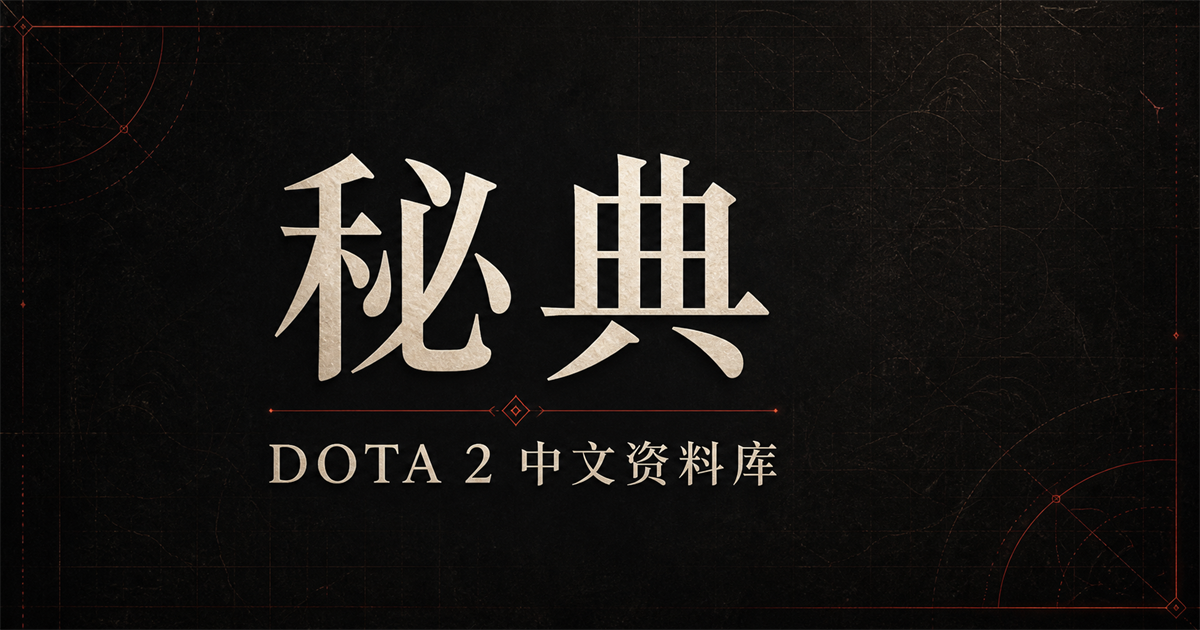
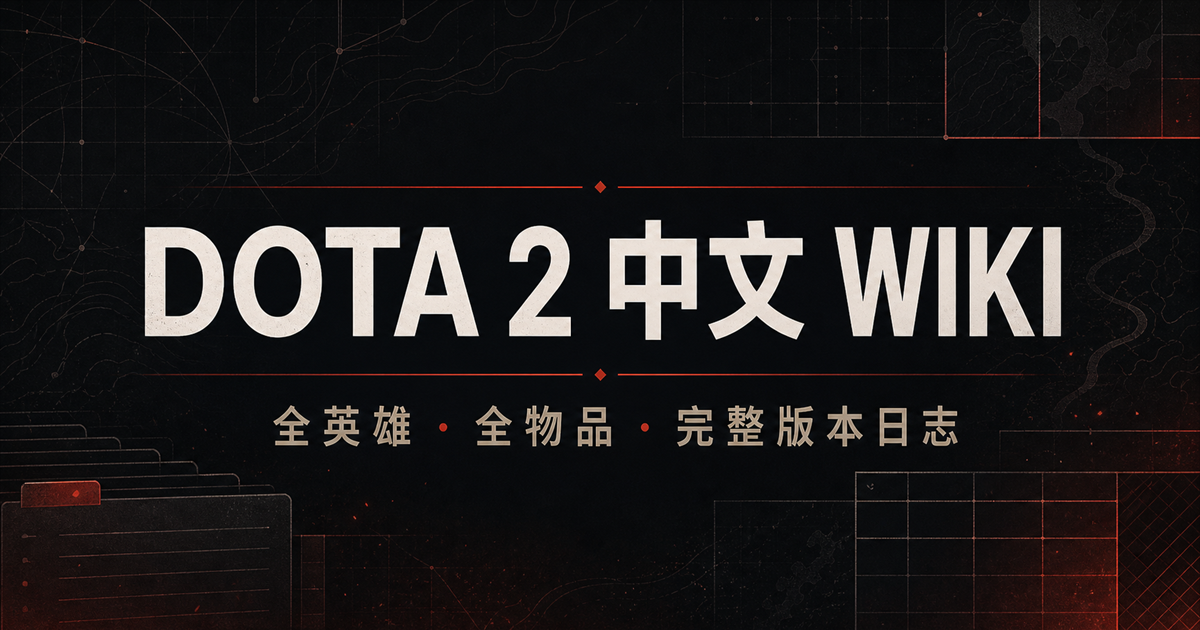
refine Dota 2 branding and homepage

diff --git a/app/globals.css b/app/globals.css
@@ -52,9 +52,10 @@ img { display: block; max-width: 100%; }
   z-index: 50;
 }
 .brand { align-items: center; display: flex; gap: 12px; }
-.brand-mark { align-items: center; background: var(--red); color: white; display: flex; font: 24px "STKaiti", "KaiTi", serif; height: 39px; justify-content: center; transform: rotate(-3deg); width: 39px; }
-.brand-copy strong { display: block; font: 23px "STKaiti", "KaiTi", serif; letter-spacing: .15em; }
-.brand-copy small { color: #6e736e; display: block; font-size: 9px; letter-spacing: .16em; margin-top: 2px; }
+.brand-logo { align-items: center; background: #171a1c; border: 1px solid #323638; display: flex; height: 42px; justify-content: center; overflow: hidden; width: 42px; }
+.brand-logo img { filter: brightness(0) saturate(100%) invert(48%) sepia(92%) saturate(1620%) hue-rotate(328deg) brightness(91%) contrast(88%); height: 30px; object-fit: contain; width: 30px; }
+.brand-copy strong { display: block; font-size: 15px; font-weight: 720; letter-spacing: .075em; white-space: nowrap; }
+.brand-copy small { color: #6e736e; display: block; font-size: 8px; letter-spacing: .08em; margin-top: 4px; white-space: nowrap; }
 .primary-nav { align-self: stretch; display: flex; gap: 28px; }
 .primary-nav a { align-items: center; color: #888c87; display: flex; font-size: 13px; position: relative; }
 .primary-nav a:hover, .primary-nav a.is-active { color: var(--ink); }
@@ -92,21 +93,18 @@ kbd { background: #222628; border: 1px solid #303638; border-radius: 3px; color:
 .footer-links a:hover { color: var(--ink); }
 
 /* Home */
-.home-intro { align-items: end; border-bottom: 1px solid var(--line); display: grid; gap: 70px; grid-template-columns: 1.15fr .85fr; margin: 0 auto; max-width: var(--max); padding: 72px 54px 58px; }
-.home-intro h1 { font: 500 clamp(39px, 4vw, 64px)/1.13 "STSong", "SimSun", serif; letter-spacing: .06em; margin: 0; }
-.home-intro-copy > p { color: #8a8e89; font-size: 13px; line-height: 2; margin: 0 0 28px; max-width: 530px; }
-.home-intro-copy > div { border-top: 1px solid var(--line); display: flex; gap: 30px; padding-top: 18px; }
-.home-intro-copy span { color: #666b67; font-size: 10px; }
-.home-intro-copy strong { color: #b9b6ae; font: 20px Georgia, serif; margin-right: 5px; }
-.latest-strip { align-items: center; background: linear-gradient(90deg, rgba(214,91,71,.11), rgba(16,19,20,.5)); border-bottom: 1px solid var(--line); display: grid; gap: 22px; grid-template-columns: 98px 1fr auto auto; margin: 0 auto; max-width: var(--max); padding: 18px 54px; }
-.latest-version { color: #e3dfd5; font: 30px Georgia, serif; }
+.latest-strip { align-items: center; background: radial-gradient(circle at 12% 50%, rgba(214,91,71,.18), transparent 28rem), linear-gradient(100deg, #171113, #111416 68%); border: 1px solid #4b2b27; box-shadow: 0 20px 70px rgba(0,0,0,.18), inset 3px 0 var(--red); display: grid; gap: 24px; grid-template-columns: auto 110px 1fr auto auto; margin: 28px auto 0; max-width: calc(var(--max) - 108px); min-height: 118px; padding: 24px 30px; }
+.latest-label { align-items: center; background: rgba(214,91,71,.11); border: 1px solid rgba(214,91,71,.42); color: #ee7a66; display: flex; font: 700 9px ui-monospace, monospace; gap: 8px; letter-spacing: .13em; padding: 7px 9px; white-space: nowrap; }
+.latest-label span { background: #f06450; border-radius: 50%; box-shadow: 0 0 0 5px rgba(240,100,80,.11); height: 6px; width: 6px; }
+.latest-version { color: #f1ede4; font: 42px Georgia, serif; letter-spacing: -.03em; }
 .latest-strip small, .latest-strip strong { display: block; }
-.latest-strip small { color: #6d726d; font-size: 9px; }
-.latest-strip strong { font: 16px "STSong", serif; margin-top: 4px; }
+.latest-strip small { color: #888b86; font-size: 9px; letter-spacing: .04em; }
+.latest-strip strong { font: 20px "STSong", serif; letter-spacing: .04em; margin-top: 7px; }
 .latest-stats { display: flex; gap: 8px; }
-.latest-stats span { border: 1px solid #323739; color: #737873; font-size: 9px; padding: 5px 8px; }
-.latest-strip a { color: #bbb8b0; font-size: 10px; }
-.latest-strip a:hover { color: var(--red); }
+.latest-stats span { background: rgba(255,255,255,.02); border: 1px solid #383d3f; color: #8f938e; font-size: 9px; padding: 6px 9px; }
+.latest-action { background: var(--red); color: white; font-size: 10px; font-weight: 700; padding: 12px 14px; transition: background .2s, transform .2s; white-space: nowrap; }
+.latest-action span { margin-left: 7px; }
+.latest-action:hover { background: #ea6a55; transform: translateX(2px); }
 
 /* Catalog */
 .catalog-layout { display: grid; grid-template-columns: 250px minmax(0, 1fr); margin: 0 auto; max-width: var(--max); }
@@ -137,7 +135,14 @@ kbd { background: #222628; border: 1px solid #303638; border-radius: 3px; color:
 .catalog-search input { background: transparent; border: 0; font-size: 10px; outline: 0; width: 100%; }
 .catalog-meta { border-bottom: 1px solid var(--line); color: #696e69; display: flex; font-size: 9px; justify-content: space-between; margin-top: 38px; padding-bottom: 12px; }
 .catalog-meta strong { color: #b2b0a8; }
-.catalog-meta button { background: transparent; border: 0; color: var(--red); cursor: pointer; font-size: 9px; }
+.catalog-meta-actions { align-items: center; display: flex; gap: 13px; }
+.catalog-meta button { cursor: pointer; }
+.clear-filters { background: transparent; border: 0; color: var(--red); font-size: 9px; }
+.view-switch { background: #101314; border: 1px solid #2d3234; display: flex; padding: 2px; }
+.view-switch button { align-items: center; background: transparent; border: 0; color: #676c68; display: flex; font-size: 9px; gap: 5px; padding: 5px 8px; }
+.view-switch button:hover { color: #b9b6af; }
+.view-switch button.is-active { background: #292e30; color: #edeae2; }
+.view-switch button span { color: var(--red); font-size: 12px; }
 .hero-grid { display: grid; gap: 16px; grid-template-columns: repeat(3, minmax(0, 1fr)); margin-top: 19px; }
 .hero-card { background: var(--panel); border: 1px solid #222729; overflow: hidden; transition: transform .2s, border-color .2s; }
 .hero-card:hover { border-color: #6f392f; transform: translateY(-3px); }
@@ -154,6 +159,14 @@ kbd { background: #222628; border: 1px solid #303638; border-radius: 3px; color:
 .hero-card-info h2 { font: 500 19px "STSong", serif; letter-spacing: .06em; margin: 4px 0 10px; }
 .hero-card-info div { display: flex; gap: 5px; }
 .hero-card-info div span { border: 1px solid #2b3032; color: #727772; font-size: 8px; padding: 3px 6px; }
+.hero-grid.is-compact { gap: 8px; grid-template-columns: repeat(2, minmax(0, 1fr)); }
+.hero-grid.is-compact .hero-card { display: grid; grid-template-columns: 118px minmax(0, 1fr); min-height: 84px; }
+.hero-grid.is-compact .hero-art { aspect-ratio: auto; height: 100%; min-height: 84px; }
+.hero-grid.is-compact .hero-art::after { background: linear-gradient(90deg, transparent 30%, rgba(8,10,11,.62)); }
+.hero-grid.is-compact .attribute-badge { bottom: 8px; height: 20px; left: 8px; width: 20px; }
+.hero-grid.is-compact .history-count { display: none; }
+.hero-grid.is-compact .hero-card-info { align-self: center; padding: 11px 13px; }
+.hero-grid.is-compact .hero-card-info h2 { font-size: 17px; margin-bottom: 7px; }
 .item-grid { display: grid; gap: 10px; grid-template-columns: repeat(3, minmax(0, 1fr)); margin-top: 18px; }
 .item-card { align-items: center; background: var(--panel); border: 1px solid #23282a; display: grid; gap: 13px; grid-template-columns: 58px 1fr auto; min-height: 82px; padding: 11px; transition: border-color .2s, transform .2s; }
 .item-card:hover { border-color: #684139; transform: translateY(-2px); }
@@ -371,9 +384,8 @@ kbd { background: #222628; border: 1px solid #303638; border-radius: 3px; color:
   .primary-nav a { font-size: 11px; }
   .global-search-button { display: none; }
   .page-shell { min-height: calc(100vh - 68px); }
-  .home-intro, .index-hero { gap: 30px; grid-template-columns: 1fr; padding: 42px 22px; }
-  .home-intro-copy > div { flex-wrap: wrap; }
-  .latest-strip { grid-template-columns: 70px 1fr auto; padding: 15px 22px; }
+  .index-hero { gap: 30px; grid-template-columns: 1fr; padding: 42px 22px; }
+  .latest-strip { grid-template-columns: auto 80px 1fr auto; margin: 20px; max-width: none; min-height: 104px; padding: 18px 20px; }
   .latest-stats { display: none; }
   .catalog-layout { display: block; }
   .filter-sidebar { border-bottom: 1px solid var(--line); border-right: 0; padding: 18px 20px; }
@@ -400,12 +412,12 @@ kbd { background: #222628; border: 1px solid #303638; border-radius: 3px; color:
 }
 
 @media (max-width: 560px) {
-  .brand-mark { height: 34px; width: 34px; }.brand-copy strong { font-size: 19px; }
+  .brand-logo { height: 35px; width: 35px; }.brand-logo img { height: 25px; width: 25px; }.brand-copy strong { font-size: 12px; }
   .primary-nav a:nth-child(4) { display: none; }
-  .home-intro h1 { font-size: 37px; }
-  .latest-strip { grid-template-columns: 60px 1fr; }.latest-strip a { display: none; }
+  .latest-strip { gap: 13px 18px; grid-template-columns: 65px 1fr; margin: 14px; padding: 17px 18px; }.latest-label { grid-column: 1 / -1; justify-self: start; }.latest-version { font-size: 32px; }.latest-strip strong { font-size: 16px; }.latest-action { display: none; }
   .catalog-heading { display: block; }.catalog-search { margin-top: 18px; width: 100%; }
   .hero-grid { gap: 9px; grid-template-columns: 1fr 1fr; }.hero-card-info { padding: 10px; }.hero-card-info h2 { font-size: 16px; }.history-count { display: none; }
+  .hero-grid.is-compact { grid-template-columns: 1fr; }.hero-grid.is-compact .hero-card { grid-template-columns: 105px minmax(0, 1fr); }
   .item-grid { grid-template-columns: 1fr; }
   .hero-detail-hero, .item-detail-hero { display: block; padding: 0; }
   .hero-detail-art { height: 210px; }.hero-title-copy, .item-detail-hero > div:nth-child(2) { padding: 20px; }

diff --git a/components/hero-browser.tsx b/components/hero-browser.tsx
@@ -1,7 +1,7 @@
 'use client';
 
 import Link from 'next/link';
-import { useMemo, useState } from 'react';
+import { useEffect, useMemo, useState } from 'react';
 
 type HeroSummary = {
   id: number;
@@ -22,6 +22,16 @@ export function HeroBrowser({ heroes, latestPatch }: { heroes: HeroSummary[]; la
   const [attribute, setAttribute] = useState('全部');
   const [role, setRole] = useState('');
   const [query, setQuery] = useState('');
+  const [viewMode, setViewMode] = useState<'grid' | 'compact'>('grid');
+
+  useEffect(() => {
+    if (window.localStorage.getItem('hero-view-mode') === 'compact') setViewMode('compact');
+  }, []);
+
+  const changeView = (mode: 'grid' | 'compact') => {
+    setViewMode(mode);
+    window.localStorage.setItem('hero-view-mode', mode);
+  };
 
   const counts = useMemo(() => Object.fromEntries(attributes.map((item) => [item, item === '全部' ? heroes.length : heroes.filter((hero) => hero.attribute === item).length])), [heroes]);
   const filtered = useMemo(() => {
@@ -75,10 +85,16 @@ export function HeroBrowser({ heroes, latestPatch }: { heroes: HeroSummary[]; la
 
         <div className="catalog-meta">
           <span><strong>{filtered.length}</strong> / {heroes.length} 位英雄</span>
-          {(attribute !== '全部' || role || query) && <button type="button" onClick={() => { setAttribute('全部'); setRole(''); setQuery(''); }}>清除筛选</button>}
+          <div className="catalog-meta-actions">
+            {(attribute !== '全部' || role || query) && <button className="clear-filters" type="button" onClick={() => { setAttribute('全部'); setRole(''); setQuery(''); }}>清除筛选</button>}
+            <div className="view-switch" role="group" aria-label="英雄展示方式">
+              <button className={viewMode === 'grid' ? 'is-active' : ''} type="button" onClick={() => changeView('grid')} aria-pressed={viewMode === 'grid'} title="卡片视图"><span aria-hidden="true">▦</span> 卡片</button>
+              <button className={viewMode === 'compact' ? 'is-active' : ''} type="button" onClick={() => changeView('compact')} aria-pressed={viewMode === 'compact'} title="紧凑列表"><span aria-hidden="true">☷</span> 列表</button>
+            </div>
+          </div>
         </div>
 
-        <div className="hero-grid">
+        <div className={`hero-grid${viewMode === 'compact' ? ' is-compact' : ''}`}>
           {filtered.map((hero) => (
             <Link className="hero-card" href={`/heroes/${hero.slug}`} key={hero.id}>
               <div className="hero-art">

diff --git a/app/page.tsx b/app/page.tsx
@@ -6,26 +6,12 @@ export default function HomePage() {
   const latest = patchIndex[0];
   return (
     <>
-      <section className="home-intro">
-        <div>
-          <p className="eyebrow accent">可追溯的中文 DOTA 2 知识库</p>
-          <h1>每一个技能，<br />都有自己的版本历史。</h1>
-        </div>
-        <div className="home-intro-copy">
-          <p>以 Valve 官方简体中文数据为主轴，将英雄、技能、物品和游戏性改动连成一套可检索的时间线。</p>
-          <div>
-            <span><strong>{meta.counts.heroes}</strong> 位英雄</span>
-            <span><strong>{meta.counts.items}</strong> 件可浏览物品</span>
-            <span><strong>{meta.counts.patches}</strong> 个官方中文版本</span>
-          </div>
-        </div>
-      </section>
-
       <section className="latest-strip">
+        <div className="latest-label"><span />NEW UPDATE</div>
         <span className="latest-version">{latest.version}</span>
-        <div><small>最新官方数据版本 · {formatDate(latest.timestamp)}</small><strong>{latest.name} 游戏性更新</strong></div>
+        <div className="latest-copy"><small>最新官方数据版本 · {formatDate(latest.timestamp)}</small><strong>{latest.name} 游戏性更新</strong></div>
         <div className="latest-stats"><span>{latest.heroChanges} 位英雄</span><span>{latest.itemChanges} 件物品</span></div>
-        <Link href={`/patches/${latest.version}`}>阅读完整日志 →</Link>
+        <Link className="latest-action" href={`/patches/${latest.version}`}>查看完整更新 <span>→</span></Link>
       </section>
 
       <HeroBrowser heroes={heroSummaries} latestPatch={meta.latestPatch} />

diff --git a/app/layout.tsx b/app/layout.tsx
@@ -5,19 +5,20 @@ import { meta, searchEntries } from '../lib/data';
 import './globals.css';
 
 export const metadata: Metadata = {
-  metadataBase: new URL(process.env.NEXT_PUBLIC_SITE_URL || 'http://localhost:3000'),
-  title: { default: '秘典 — DOTA 2 中文资料库', template: '%s｜秘典' },
+  metadataBase: new URL(process.env.NEXT_PUBLIC_SITE_URL || 'https://midian-dota2-cn.cpti3-tools.chatgpt.site'),
+  title: { default: 'DOTA 2 中文 WIKI', template: '%s｜DOTA 2 中文 WIKI' },
   description: 'DOTA 2 全英雄、技能、物品与版本改动的中文检索资料库。',
+  icons: { icon: 'https://cdn.cloudflare.steamstatic.com/apps/dota2/images/dota_react/global/dota2_logo_symbol.png' },
   openGraph: {
-    title: '秘典 — DOTA 2 中文资料库',
+    title: 'DOTA 2 中文 WIKI',
     description: '127 位英雄、全量物品与逐版本中文改动日志。',
     type: 'website',
     locale: 'zh_CN',
-    images: [{ url: '/og.png', width: 1200, height: 630, alt: '秘典 — DOTA 2 中文资料库' }],
+    images: [{ url: '/og.png', width: 1200, height: 630, alt: 'DOTA 2 中文 WIKI' }],
   },
   twitter: {
     card: 'summary_large_image',
-    title: '秘典 — DOTA 2 中文资料库',
+    title: 'DOTA 2 中文 WIKI',
     description: '127 位英雄、全量物品与逐版本中文改动日志。',
     images: ['/og.png'],
   },

diff --git a/components/site-header.tsx b/components/site-header.tsx
@@ -46,11 +46,13 @@ export function SiteHeader({ latestPatch, entries }: { latestPatch: string; entr
   return (
     <>
       <header className="site-header">
-        <Link className="brand" href="/" aria-label="秘典首页">
-          <span className="brand-mark">秘</span>
+        <Link className="brand" href="/" aria-label="DOTA 2 中文 WIKI 首页">
+          <span className="brand-logo" aria-hidden="true">
+            <img src="https://cdn.cloudflare.steamstatic.com/apps/dota2/images/dota_react/global/dota2_logo_symbol.png" alt="" />
+          </span>
           <span className="brand-copy">
-            <strong>秘典</strong>
-            <small>DOTA 2 中文资料库</small>
+            <strong>DOTA 2 中文 WIKI</strong>
+            <small>玩家资料库 · 非官方网站</small>
           </span>
         </Link>
 

diff --git a/app/heroes/[slug]/page.tsx b/app/heroes/[slug]/page.tsx
@@ -14,8 +14,8 @@ export async function generateMetadata({ params }: { params: Promise<{ slug: str
   return {
     title: `${hero.name} — 技能与版本历史`,
     description: `${hero.name}（${hero.nameEnglish}）官方中文资料、当前技能数值和完整改动时间线。`,
-    openGraph: { title: `${hero.name}｜秘典`, description: hero.hype, images: [{ url: hero.image }] },
-    twitter: { title: `${hero.name}｜秘典`, description: hero.hype, images: [hero.image] },
+    openGraph: { title: `${hero.name}｜DOTA 2 中文 WIKI`, description: hero.hype, images: [{ url: hero.image }] },
+    twitter: { title: `${hero.name}｜DOTA 2 中文 WIKI`, description: hero.hype, images: [hero.image] },
   };
 }
 

diff --git a/app/patches/[version]/page.tsx b/app/patches/[version]/page.tsx
@@ -16,8 +16,8 @@ export async function generateMetadata({ params }: { params: Promise<{ version: 
   return {
     title: `${patch.name} — 完整更新日志`,
     description,
-    openGraph: { title: `${patch.name} 完整更新日志｜秘典`, description, images: [] },
-    twitter: { title: `${patch.name} 完整更新日志｜秘典`, description, images: [] },
+    openGraph: { title: `${patch.name} 完整更新日志｜DOTA 2 中文 WIKI`, description, images: [] },
+    twitter: { title: `${patch.name} 完整更新日志｜DOTA 2 中文 WIKI`, description, images: [] },
   };
 }
 

diff --git a/app/items/[slug]/page.tsx b/app/items/[slug]/page.tsx
@@ -15,8 +15,8 @@ export async function generateMetadata({ params }: { params: Promise<{ slug: str
   return {
     title: `${item.name} — 属性与版本历史`,
     description,
-    openGraph: { title: `${item.name}｜秘典`, description, images: [{ url: item.image }] },
-    twitter: { title: `${item.name}｜秘典`, description, images: [item.image] },
+    openGraph: { title: `${item.name}｜DOTA 2 中文 WIKI`, description, images: [{ url: item.image }] },
+    twitter: { title: `${item.name}｜DOTA 2 中文 WIKI`, description, images: [item.image] },
   };
 }
 

diff --git a/app/sources/page.tsx b/app/sources/page.tsx
@@ -3,7 +3,7 @@ import { cnNews, formatDate, meta, validation } from '../../lib/data';
 
 export const metadata: Metadata = {
   title: '数据来源、同步与许可',
-  description: '秘典的数据来源优先级、同步方法、验证结果与图片/文字许可说明。',
+  description: 'DOTA 2 中文 WIKI 的数据来源优先级、同步方法、验证结果与图片/文字许可说明。',
 };
 
 export default function SourcesPage() {

diff --git a/components/site-footer.tsx b/components/site-footer.tsx
@@ -4,7 +4,7 @@ export function SiteFooter({ generatedAt }: { generatedAt: string }) {
   return (
     <footer className="site-footer">
       <div>
-        <strong>秘典</strong>
+        <strong>DOTA 2 中文 WIKI</strong>
         <span>独立 DOTA 2 中文资料项目，并非 Valve 或完美世界官方网站。</span>
       </div>
       <div className="footer-links">
